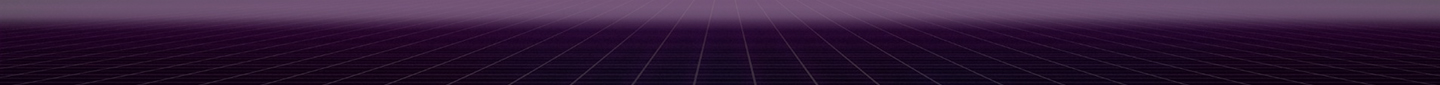
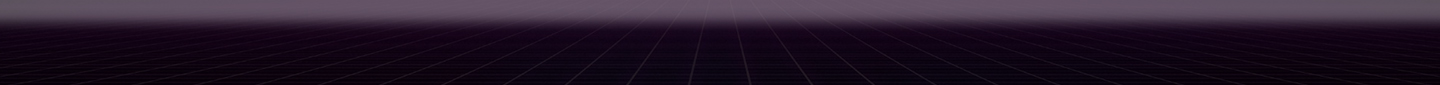
added playlist

diff --git a/assets/css/style.css b/assets/css/style.css
@@ -42,7 +42,7 @@ body {
 
 #nowPlayingBarContainer {
 	width: 100%;
-	background: linear-gradient(to bottom, #591b3f, #65062340), url(../images/bg/bar.jpg);
+	background: linear-gradient(to bottom, #591b3f, #65062340);
 	box-shadow: 25px 0px 32px 12px rgba(0,0,0,0.4);
     bottom: 0;
     position: fixed;
@@ -143,7 +143,7 @@ body {
 }
 
 .playbackBar .progressBar {
-	margin-top: 3px;
+	margin-top: 4px;
 }
 
 #nowPlayingLeft {
@@ -472,9 +472,9 @@ body {
 }
 
 .artistButton:hover {
-	background-color: #ff004f75;
-	border: 2px solid rgba(185,241,3,0.75);
-	transition-duration: .5s;
+	background-color: #ff004f;
+	border-color:#ff004f;
+	transition-duration: .3s;
 }
 
 [role="link"] {
@@ -565,6 +565,10 @@ input:focus {
 	background: linear-gradient(to right, #623e854f, #85405b2e);
 }
 
+.tracklistContainer h2 {
+	text-align: center;
+}
+
 .tracklistContainer h3,
 .artistsContainer h3,
 .gridViewContainerSearch h3 {
@@ -594,3 +598,36 @@ input:focus {
 .gridViewContainer {
 	max-width: 50%;
 }
+
+.playlistContainer {
+	padding: 10px 0;
+}
+
+.playlistButton {
+	color: #fff;
+    cursor: pointer;
+    background-color: #ff004f25;
+    margin-bottom: 50px;
+    font-weight: bold;
+    letter-spacing: 1px;
+    border: 2px solid #fff;
+    border-radius: 11px;
+    padding: 8px;
+    min-width: 105px;
+}
+
+.playlistButton:hover {
+	background-color: #ff004f;
+	border-color:#ff004f;
+	transition-duration: .3s;
+}
+
+.buttonItems .button {
+	display: block;
+	margin: 0 auto 20px auto;
+}
+
+.playlistHeader {
+	text-align: center;
+}
+

diff --git a/assets/js/script.js b/assets/js/script.js
@@ -27,6 +27,25 @@ function openPage(url) {
 
 }
 
+function createPlaylist() {
+	var popup = prompt("Name your playlist");
+
+	if(popup != "") {
+		
+		$.post("includes/handlers/ajax/createPlaylist.php", {name: popup, username: userLoggedIn })
+		.done(function(error) {
+
+			if(error != null) {
+				alert(error);
+				return;
+			}
+			//do something when AJAX retruns
+			openPage("yourMusic.php");
+		})
+	}
+}
+
+
 function formatTime(seconds) {
 	var time = Math.round(seconds);
 	var minutes = Math.floor(time / 60); //Rounds down

diff --git a/game.php b/game.php
@@ -71,20 +71,6 @@ $publisher = $game->getPublisher();
 		<script>
 			var tempSongIds = '<?php echo json_encode($songIdArray); ?>';
 			tempPlaylist = JSON.parse(tempSongIds);
-/*
-			function checkPlay() {
-			var imageName = audioElement.audio.muted ? "volume-mute.png" : "assets/images/icons/play-white.png";
-			$(".controlButton.volume img").attr("src", "assets/images/icons/" + imageName).is(':visible');
-
-			var isVisible = audioElement.audio.muted;
-
-			if (isVisible == true) {
-				$(".volumeBar .progress").css("visibility","hidden");
-			} else {
-				$(".volumeBar .progress").css("visibility","visible");
-			}
-			}
-*/
 		</script>
 
 	</ul>

diff --git a/includes/header.php b/includes/header.php
@@ -28,7 +28,7 @@ include("includes/classes/Artist.php");
 	<link rel="stylesheet" type="text/css" href="assets/css/style.css">
 	<script src="https://ajax.googleapis.com/ajax/libs/jquery/3.3.1/jquery.min.js"></script>
 	<script src="assets/js/script.js"></script>
-	<script src="assets/js/sweetalert2.js"></script>
+	<script src="assets/js/sweetalert2.min.js"></script>
 
 </head>
 <body>

diff --git a/includes/handlers/ajax/createPlaylist.php b/includes/handlers/ajax/createPlaylist.php
@@ -1,0 +1,15 @@
+<?php
+include("../../config.php");
+
+if(isset($_POST['name']) && isset($_POST ['username'])) {
+
+    $name = $_POST['name'];
+    $username = $_POST['username'];
+    $date = date("Y-m-d");
+
+    $query = mysqli_query($con, "INSERT INTO playlists VALUES('', '$name', '$username', '$date')");
+} else {
+    echo "Name or Username not passed into file.";
+}
+
+?>

diff --git a/yourMusic.php b/yourMusic.php
@@ -1,0 +1,16 @@
+<?php
+include("includes/includedFiles.php");
+?>
+
+<div class="playlistContainer">
+
+    <div class="gridViewContainer">
+        <h2 class="playlistHeader">Playlists</h2>
+
+        <div class="buttonItems">
+            <button class="playlistButton button" onclick="createPlaylist()">New Playlist</button>
+        </div>
+    </div>
+
+</div>
+

diff --git a/includes/nowPlayingBar.php b/includes/nowPlayingBar.php
@@ -130,6 +130,7 @@ function setMute() {
 		$(".volumeBar .progress").css("visibility","visible");
 	}
 }
+
 /*
 function musicChecker() {
 	var testVar = audioElement.audio.currentTime = 0;
